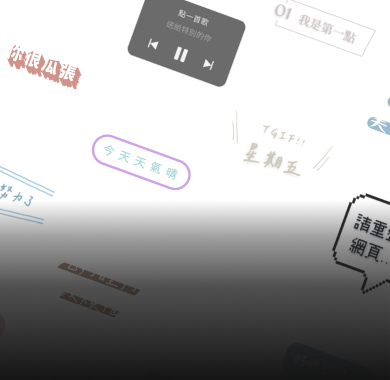
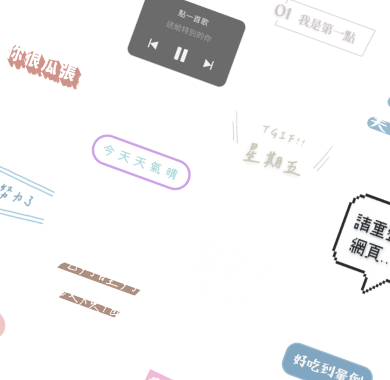
fix: fix position of carousel images

diff --git a/src/components/vivisticker/Payment.vue b/src/components/vivisticker/Payment.vue
@@ -11,6 +11,7 @@ div(class="payment" v-touch @swipe="handleSwipe")
         img(class="payment__carousel-item__img"
             draggable="false"
             :src="item.img")
+        div(class="payment__carousel-item__overlay")
         div(class="payment__carousel-item__title text-white") {{ item.title }}
   div(class="payment__content")
     div(class="payment__content__indicator")
@@ -115,7 +116,7 @@ export default defineComponent({
         {
           key: 'text',
           title: this.$t('STK0050'),
-          img: require('@/assets/img/png/pricing/tw/vivisticker_pro-text.png')
+          img: require(`@/assets/img/png/pricing/${this.$i18n.locale}/vivisticker_pro-text.png`)
         },
         {
           key: 'object',
@@ -166,7 +167,9 @@ export default defineComponent({
   },
   computed: {
     ...mapState({
-      windowSize: 'windowSize'
+      windowSize: 'windowSize',
+      isTablet: 'isTablet',
+      isLandscape: 'isLandscape',
     }),
     txtBtnSubscribe() {
       return this.planSelected === 'annually' ? this.$t('STK0046') : this.$t('STK0047')
@@ -209,6 +212,9 @@ export default defineComponent({
           tag: this.localizedTag
         }
       ]
+    },
+    padding() {
+      return this.isTablet ? '2.8%' : '24px'
     }
   },
   methods: {
@@ -267,17 +273,26 @@ export default defineComponent({
     display: flex;
     justify-content: center;
     width: inherit;
-    height: 45vh;
+    height: 75vw;
+    max-height: v-bind("isLandscape ? '50vh' : 'unset'");
     &__img {
       width: 100%;
       object-fit: cover;
-      object-position: bottom;
+      object-position: center;
+    }
+    &__overlay {
+      position: absolute;
+      left: 0;
+      top: 0;
+      width: 100%;
+      height: calc(100% + 1px); // prevent subpixel problem
+      background: linear-gradient(0deg, rgba(setColor(black-1),1) 0%, rgba(setColor(black-1),0) 50%);
     }
     &__title {
       position: absolute;
       bottom: -18px;
       width: calc(100% - 48px);
-      margin: 0px 24px;
+      margin: 0px v-bind(padding);
       text-align: left;
       font-weight: 600;
       font-size: 18px;
@@ -285,7 +300,7 @@ export default defineComponent({
     }
   }
   &__content {
-    margin: 0px 24px;
+    margin: 0px v-bind(padding);
     &__indicator {
       margin: 42px auto 0 auto;
       display: flex;
@@ -419,7 +434,7 @@ export default defineComponent({
     right: 0px;
     box-sizing: border-box;
     // min-height: 57%;
-    padding: 16px 24px 0px 24px;
+    padding: 16px v-bind(padding) 0px v-bind(padding);
     color: white;
     background-color: setColor(black-3);
     border-radius: 10px 10px 0px 0px;
@@ -427,8 +442,8 @@ export default defineComponent({
     transition-duration: 300ms;
     transition-timing-function: ease-in-out;
     &.close {
-      left: 24px;
-      right: 24px;
+      left: v-bind(padding);
+      right: v-bind(padding);
       bottom: -32px;
       transform: translateY(calc(100% - 80px));
     }
